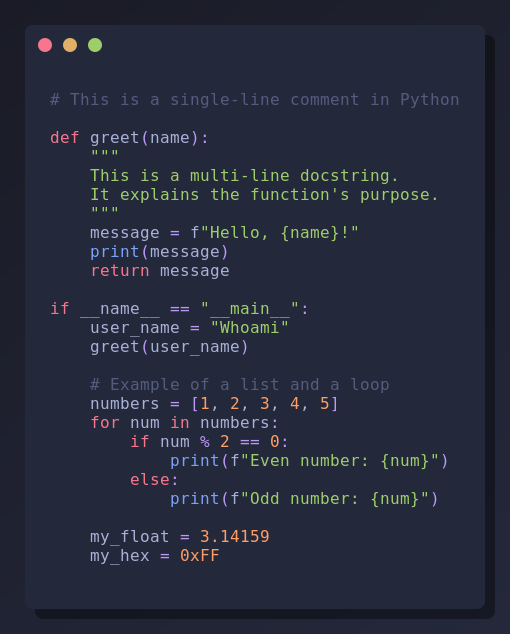
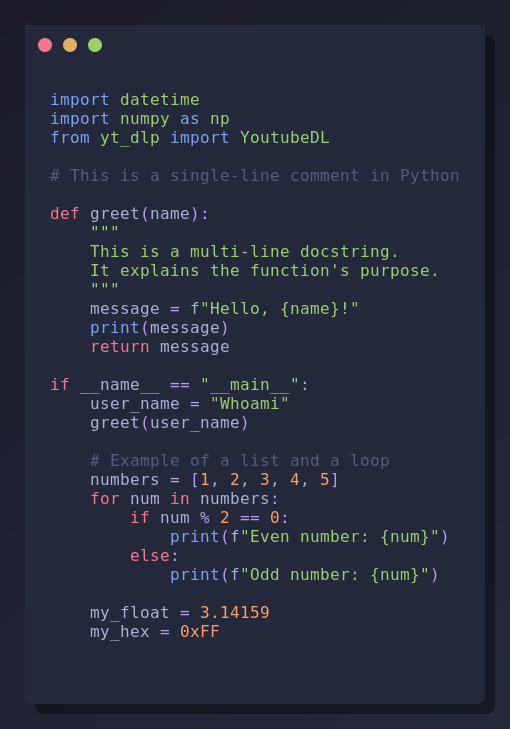
feat(python): Enhance syntax highlighting and update docs
- Improves Python syntax highlighting:
  - `from` keyword is now colored blue for consistency with `import`.
  - Module aliases after `as` are now colored green.
- Updates the "How It Works" section in README.md with a more
  detailed and technical explanation of the program's workflow.

diff --git a/src/syntax_highlighting_python.c b/src/syntax_highlighting_python.c
@@ -131,6 +131,7 @@ highlight_tokens_on_line_python(GString *highlighted_line_gstring,
                                 const char *line_content,
                                 gchar *in_multiline_string) {
   gboolean expect_module_name = FALSE;
+  gboolean expect_alias_name = FALSE;
   const char *ptr = line_content;
   const char *start_of_plain_text = line_content;
 
@@ -265,16 +266,18 @@ highlight_tokens_on_line_python(GString *highlighted_line_gstring,
 
         if (is_word_boundary) { // Only highlight if it's a whole word
           if (expect_module_name) {
-            token_len = word_scan_ptr - current_token_start;
             token_color = "#9ece6a"; // Green for module name
             expect_module_name = FALSE;
+          } else if (expect_alias_name) {
+            token_color = "#9ece6a"; // Green for alias name
+            expect_alias_name = FALSE;
           } else if (g_hash_table_lookup(keywords_ht, word)) {
-            token_len = word_scan_ptr - current_token_start;
-            if (strcmp(word, "import") == 0) {
-              token_color = "#7aa2f7"; // Blue for 'import' keyword
+            if (strcmp(word, "import") == 0 || strcmp(word, "from") == 0) {
+              token_color = "#7aa2f7"; // Blue for 'import'/'from' keywords
               expect_module_name = TRUE;
             } else if (strcmp(word, "as") == 0) {
               token_color = "#7aa2f7"; // Blue for 'as' keyword
+              expect_alias_name = TRUE;
             } else {
               token_color = "#f7768e"; // Red for other keywords
             }
@@ -284,13 +287,12 @@ highlight_tokens_on_line_python(GString *highlighted_line_gstring,
               lookahead++;
             if (*lookahead == '(' &&
                 g_hash_table_lookup(standard_functions_ht, word)) {
-              token_len = word_scan_ptr - current_token_start;
               token_color = "#7aa2f7"; // Blue for functions
             }
           }
         }
         g_free(word);
-        token_len = word_scan_ptr - current_token_start; // Corrected line
+        token_len = word_scan_ptr - current_token_start;
       }
       // 5. Operators
       else {

diff --git a/test_python_code.py b/test_python_code.py
@@ -1,3 +1,7 @@
+import datetime
+import numpy as np
+from yt_dlp import YoutubeDL
+
 # This is a single-line comment in Python
 
 def greet(name):

diff --git a/README.md b/README.md
@@ -82,47 +82,42 @@ This will compile the source code and create an executable named `screenCODE` in
 <details>
 <summary>How it Works 👇</summary>
 
-The `screenCODE` program is designed to take a source code file (C or Python), apply syntax highlighting, and then generate a PNG image of the highlighted code, resembling a code editor screenshot.
+The `screenCODE` program is engineered to transform plain source code into a visually appealing PNG image that mimics a modern code editor's screenshot. The process involves several key stages, leveraging powerful libraries like Cairo for 2D graphics, Pango for text layout and rendering, and GLib for efficient data structures.
 
-Here's how it works in detail:
+Here’s a detailed breakdown of the internal workflow:
 
-1.  **Parsing Command Line Arguments (`main.c`)**:
-    *   The program processes the arguments you provide. `input_file` and `output_png` are mandatory.
-    *   The `-lang` argument allows manual language specification, overriding auto-detection.
-    *   The `-no-gradient` argument disables the header gradient.
-    *   The `-l` argument enables line numbers.
-    *   The new `-no-color` argument disables syntax highlighting.
+1.  **Initialization and Argument Parsing (`main.c`)**:
+    *   The program begins by initializing the `Fontconfig` library to ensure proper font discovery and management.
+    *   It then parses all command-line arguments (`-lang`, `-l`, `-t`, etc.) to configure the output. If a language isn't specified with `-lang`, it's automatically detected from the input file's extension (`.c`, `.py`, `.go`).
 
-2.  **Language Detection and Validation (`main.c`)**:
-    *   If `-lang` is not used, the program attempts to determine the language (C or Python) from the input file's extension.
-    *   It validates that the detected or specified language is supported. If not, it warns the user and exits.
+2.  **Syntax Data Loading (`main.c`)**:
+    *   Based on the determined language, a one-time initialization function (`init_syntax_tables_c`, `init_syntax_tables_python`, or `init_syntax_tables_go`) is called.
+    *   This function loads language-specific keywords, built-in functions, and other syntax elements into `GHashTable`s (efficient hash tables from GLib). This up-front loading ensures that token lookups during the highlighting phase are extremely fast.
 
-3.  **Fontconfig Initialization (`main.c`)**:
-    *   `FcInit()` is now called at the start of `main` to properly initialize the Fontconfig library, resolving previous warnings.
+3.  **Code Highlighting (`syntax_highlighting.c`, `syntax_highlighting_*.c`)**:
+    *   The core highlighting logic resides in the `highlight_syntax` function, which acts as a dispatcher. It calls the appropriate language-specific function (e.g., `highlight_python_syntax`).
+    *   The language-specific function iterates through the source code line by line. For each line, it scans for tokens in a specific order of precedence:
+        1.  **Multi-line constructs**: Checks for ongoing multi-line comments (C/Go) or strings (Python).
+        2.  **Strings & Comments**: Identifies string literals (`"..."`, `'''...'''`) and comments (`//`, `/*...*/`, `#`).
+        3.  **Numbers**: Recognizes various number formats (integers, floats, hex, etc.).
+        4.  **Keywords & Identifiers**: It extracts words and checks them against the pre-loaded `GHashTable`s. Special logic handles context-dependent highlighting, like function names following a `func` keyword in Go or module names after an `import` in Python.
+        5.  **Operators**: Matches against a sorted list of operators to find the longest possible match first (e.g., `>>=` before `>>`).
+    *   Each recognized token is escaped to prevent Pango markup conflicts and then wrapped in a `<span>` tag with a specific `foreground` color (e.g., `<span foreground='#f7768e'>return</span>`).
+    *   If line numbers (`-l`) are enabled, they are prepended to each line with consistent padding before the highlighting process begins.
 
-4.  **Syntax Table Initialization (`main.c`, `syntax_highlighting_c.c`, `syntax_highlighting_python.c`)**:
-    *   Syntax highlighting rules (keywords, functions, etc.) are loaded into efficient hash tables. This is now done once at the start of `main.c` based on the detected language, improving performance and preventing memory leaks.
+4.  **Text Measurement and Image Sizing (`main.c`)**:
+    *   Before creating the final image, the program uses a temporary Cairo surface and a Pango layout to accurately measure the pixel dimensions (width and height) of the fully highlighted, Pango-formatted text.
+    *   This measurement is crucial for calculating the final image size, ensuring no code gets clipped. The final dimensions include padding, header height, and shadow offsets.
 
-5.  **Reading Code File Content (`main.c`)**:
-    *   The entire content of the source code file is read into memory.
+5.  **Image Rendering with Cairo (`main.c`, `drawing_utils.c`, `title_drawing.c`)**:
+    *   A new Cairo surface (the canvas for our image) is created with the calculated dimensions.
+    *   The background, a subtle drop shadow, and the main window frame with rounded corners are drawn.
+    *   The window header is rendered, either as a solid color or a linear gradient, along with the decorative "traffic light" buttons.
+    *   If a title (`-t`) was provided, it is drawn and centered in the header using `draw_window_title`.
+    *   Finally, the Pango layout containing the highlighted code is rendered onto the Cairo surface at the correct position.
 
-6.  **Syntax Highlighting and Line Numbering (`syntax_highlighting.c`, `syntax_highlighting_c.c`, `syntax_highlighting_python.c`)**:
-    *   The `highlight_syntax` function dispatches to language-specific highlighting functions (`highlight_c_syntax` or `highlight_python_syntax`).
-    *   If `-no-color` is used, the code content is escaped for Pango markup and returned as plain text.
-    *   Otherwise, tokens (strings, comments, numbers, keywords, operators) are identified, escaped for Pango markup, and wrapped in `<span>` tags with specific colors.
-    *   If line numbers are enabled, they are prepended to each line with proper formatting before syntax highlighting is applied to the entire line.
+6.  **Output and Cleanup (`main.c`)**:
+    *   The completed Cairo surface is saved to a PNG file at the specified output path.
+    *   All allocated resources—memory for the code content, Pango layouts, Cairo surfaces, and the syntax hash tables—are meticulously freed to prevent memory leaks.
 
-7.  **Text Measurement and Image Dimensions (`main.c`)**:
-    *   Pango is used to calculate the exact dimensions of the highlighted text, including line numbers if present. This ensures the output image is sized correctly.
-
-8.  **PNG Image Drawing (`main.c`, `drawing_utils.c`)**:
-    *   A Cairo surface is created. The program draws the background, a subtle window shadow, the main window frame with rounded corners, and the window header (using the improved `draw_header` function).
-    *   Decorative window control buttons are added.
-    *   Finally, the Pango-formatted code (with or without line numbers) is drawn onto the surface.
-
-9.  **Image Saving (`main.c`)**:
-    *   The final image is saved as a PNG file.
-
-10. **Memory Cleanup (`main.c`)**:
-    *   All allocated memory and resources are properly freed at the end of the program execution.
 </details>
